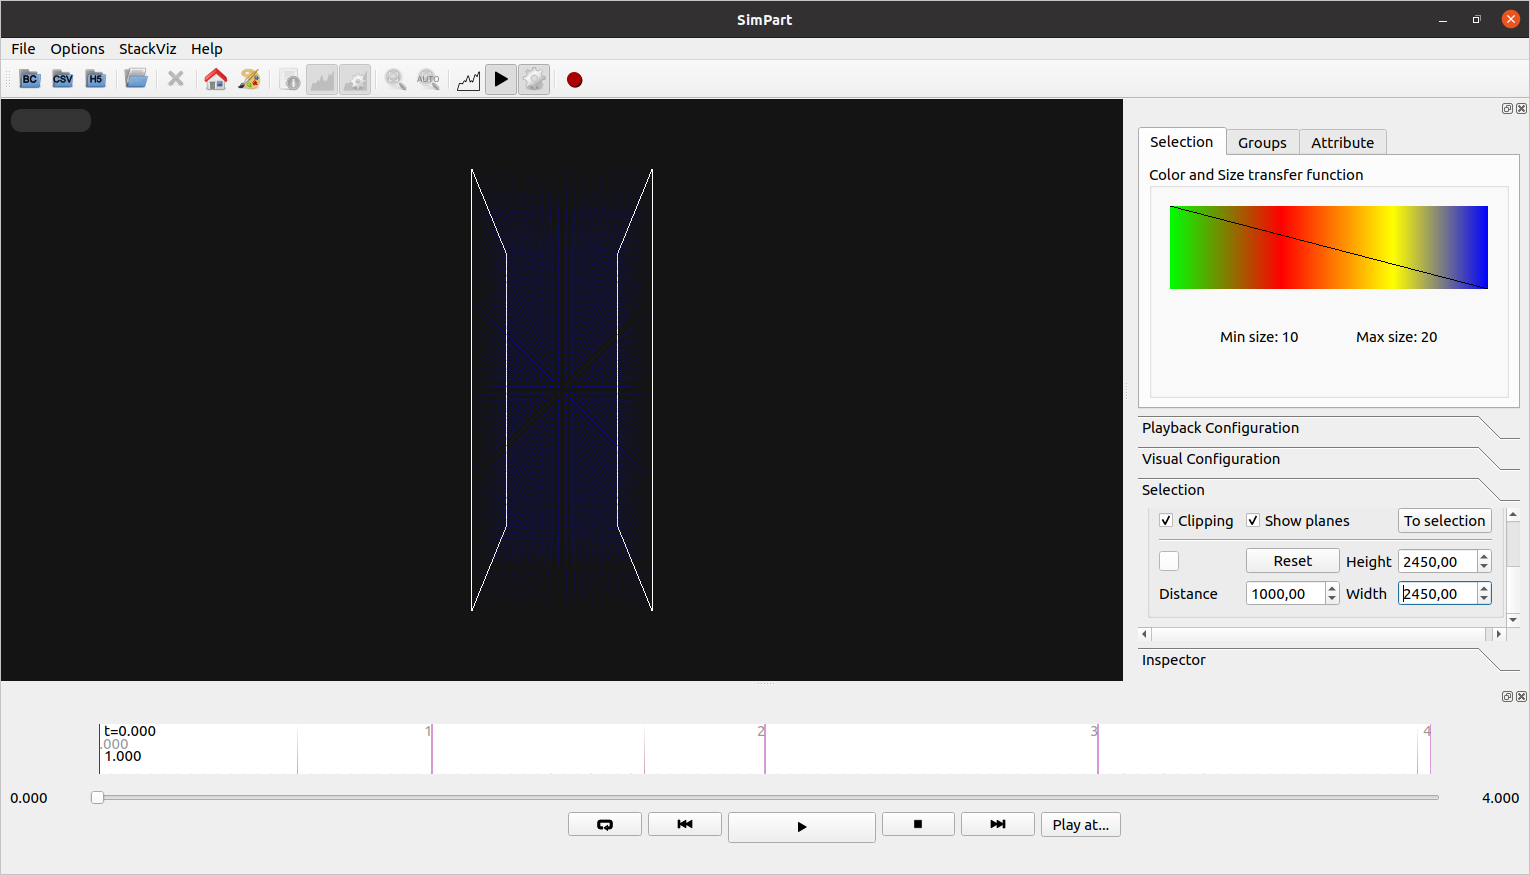
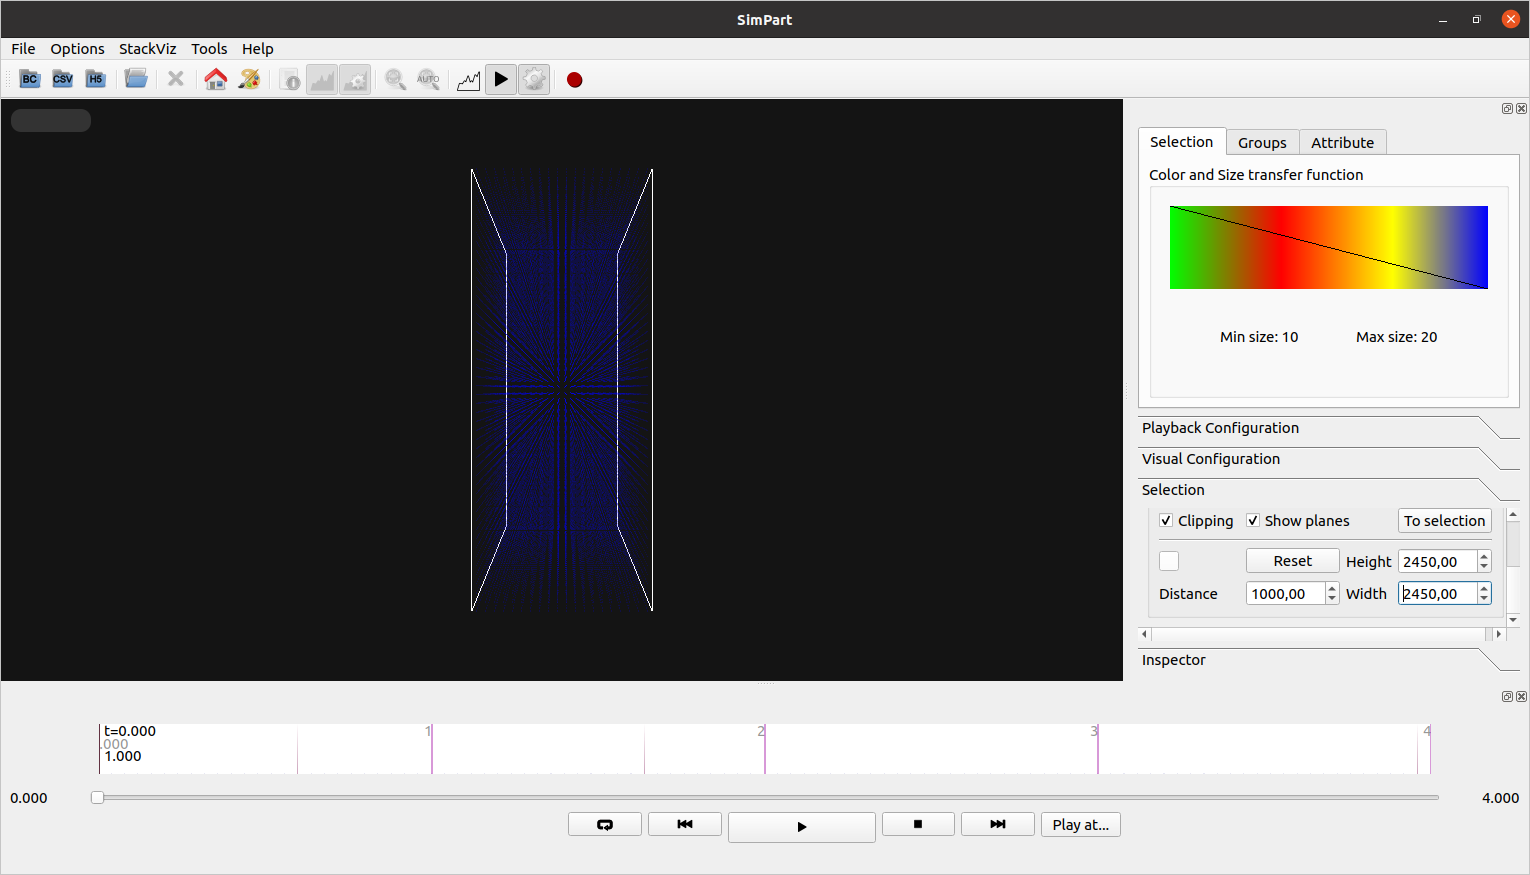
Update to version 1.5.4.

Changed region(s): [[0.3072, 0.216, 0.4301, 0.6789], [0.1229, 0.0309, 0.1843, 0.0617]]

diff --git a/source/conf.py b/source/conf.py
@@ -24,7 +24,7 @@ author = 'Sergio E. Galindo & Félix de las Pozas Álvarez'
 # The short X.Y version
 version = ''
 # The full version, including alpha/beta/rc tags
-release = '1.5.3'
+release = '1.5.4'
 
 # -- General configuration ---------------------------------------------------
 
@@ -88,7 +88,7 @@ latex_maketitle = r'''
 \begin{center}
   \includegraphics[width=6cm,height=6cm]{visimpl-icon-square.png}\\[8ex]
   {\Huge SimPart \& StackViz Documentation}\\[4ex]
-  {\Large Version 1.5.3}\\[4ex]
+  {\Large Version 1.5.4}\\[4ex]
   {\Large Sergio E. Galindo \& F\'{e}lix de las Pozas \'{A}lvarez}\\[4ex]
   {\Large March 2022}\\[16ex]
   {\Large Visualization \& Graphics Lab, Universidad Rey Juan Carlos}\\[4ex]

diff --git a/source/02-ViSimplUserInterface.rst b/source/02-ViSimplUserInterface.rst
@@ -53,8 +53,6 @@ Options menu
 - **Add ZeroEQ selections as visual groups**: By default the ids received by the ZeroEQ channel will be interpreted by SimPart as a tentative selection, if this option is checked then the received ids will be added automatically as a visual group.
 - **Update on idle**: This will reduce visualization repaint calls to user interaction (camera rotation, etc.) and specific actions. 
 - **Show FPS on idle update**: Displays a label with current frames per second rate. Note: this might reduce performance due to interface update calls, so it is recommended to hide it when not interested on measuring performance. 
-- **Recorder**: This button shows the recorder configuration dialog if the recorder is not running. If the recorder is running it will stop the recorder.
-- **Advanced recorder options**: This option will enable advanced configuration options in the recorder. 
 
 ^^^^^^^^^^^^^
 StackViz menu
@@ -68,6 +66,15 @@ This menu contains options for the StackViz widget included in SimPart. It will 
 - **Focus on playhead**: If this button is clicked the StackViz focus widget will be centered in the part of the selected histogram that is currently being visualized. 
 - **Follow playhead**: If this option is enabled the StackViz focus widget will always be centered in the part of the selected histogram that is being visualized.
 - **Show StackViz Panels**: Shows/hides the StackViz configuration panels. Hiding the panels will make the focus widget larger.
+
+^^^^^^^^^^
+Tools menu
+^^^^^^^^^^
+
+This menu contains the recorder tools and its configuration options. 
+
+- **Recorder**: This button shows the recorder configuration dialog if the recorder is not running. If the recorder is running it will stop the recorder.
+- **Advanced recorder options**: This option will enable advanced configuration options in the recorder configuration dialog. 
 
 ^^^^^^^^^
 Help menu
@@ -186,8 +193,8 @@ When creating a selection the application will ask for a group name. The name ca
 .. figure:: images/VSImage013.png
    :alt: Selection groups list with default assigned colors for each of the three selected groups.
    :align: center
-   :width: 1850
-   :scale: 35%
+   :width: 1530
+   :scale: 40%
 
    Selection groups list with default assigned colors for each of the three selected groups.
    
@@ -252,7 +259,10 @@ If the output is a video the user can specify the location of the generated file
 
 The dimensions of the output are shown and can be modified with the scale options.
 
-While the recorder is working the associated toolbar button will remain down and the user must click it again to stop it. The recorder can also be stopped using the Recorder button in the Options menu or the keyboard shortcut **Ctrl + R**.   
+While the recorder is working the associated toolbar button will remain down and the icon will change every second with an image of a "Stop" button with REC letters written inside it. The user must click it again to stop the recording. The recorder can also be stopped using the **Recorder** button in the **Tools** menu or the keyboard shortcut **Ctrl + R**.
+
+.. note::
+   If the output is a video the filename of the output file will end with "_temporal" while recording. Once the recording has finished it will change to the selected output name in the configuration dialog. The application will warn if the user tries to exit the application while a recording is being made.
 
 .. warning::
    To record a video the system must have **ffmpeg** installed, preferably with Nvidia hardware acceleration. 

diff --git a/source/01-Introduction.rst b/source/01-Introduction.rst
@@ -9,7 +9,7 @@ After decades of independent morphological and functional brain research, a key 
 
 In such context we present **ViSimpl**, which integrates a set of visualization and interaction tools that provide a semantic view of brain data with the aim of improving its analysis procedures. ViSimpl provides 3D particle--based rendering that allows visualizing simulation data with their associated spatial and temporal information, enhancing the knowledge extraction process. It also provides abstract representations of the time--varying magnitudes supporting different data aggregation and disaggregation operations and giving also focus and context clues. In addition, ViSimpl tools provide synchronized playback control of the simulation being analyzed. Finally, ViSimpl allows performing selection and filtering operations in association with NeuroScheme application. All these views are loosely coupled and can be used independently, but they can also work together, both in centralized and distributed computing environments, as linked views enhancing the data exploration and analysis procedures.
 
-This documentation is for ViSimpl version 1.5.3 that can be obtained from the homepage.
+This documentation is for ViSimpl version 1.5.4 that can be obtained from the homepage.
 
 ---------------------
 Hardware requirements
@@ -127,14 +127,14 @@ Executing both applications from docker:
 
   xhost +local:docker
   # Pull the image.
-  docker pull vglab/visimpl:1.5.3-nvidia-ubuntu-16.04
+  docker pull vglab/visimpl:1.5.4-nvidia-ubuntu-16.04
   # Download example data
   mkdir data
   cd data
   # Download a test dataset or move test files to data directory.
   cd ..
   # Run example
-  docker run --gpus 1 -ti --rm -e DISPLAY -v /tmp/.X11-unix:/tmp/.X11-unix -v /etc/machine-id:/etc/machine-id -v $(pwd)/data:/data --privileged vglab/visimpl:1.5.3-nvidia-ubuntu-16.04 /usr/bin/visimpl.sh
+  docker run --gpus 1 -ti --rm -e DISPLAY -v /tmp/.X11-unix:/tmp/.X11-unix -v /etc/machine-id:/etc/machine-id -v $(pwd)/data:/data --privileged vglab/visimpl:1.5.4-nvidia-ubuntu-16.04 /usr/bin/visimpl.sh
 
 To execute **SimPart** only the user must use the **/usr/bin/simpart.sh** call, and to execute **StackViz** follow the same steps but use **/usr/bin/stackviz.sh** in the docker call. All scripts supports the parameters specified in the previous table with the exception of **--testFile** parameter as is only available in SimPart.
 
@@ -146,9 +146,9 @@ To test the applications in a docker enviroment:
 
   xhost +local:docker
   # Pull the image.
-  docker pull vglab/visimpl:1.5.3-nvidia-ubuntu-16.04
+  docker pull vglab/visimpl:1.5.4-nvidia-ubuntu-16.04
   # Run bash inside docker
-  docker run --gpus 1 -ti --rm -e DISPLAY -v /tmp/.X11-unix:/tmp/.X11-unix -v /etc/machine-id:/etc/machine-id -v $(pwd)/data:/data --privileged vglab/visimpl:1.5.3-nvidia-ubuntu-16.04 bash
+  docker run --gpus 1 -ti --rm -e DISPLAY -v /tmp/.X11-unix:/tmp/.X11-unix -v /etc/machine-id:/etc/machine-id -v $(pwd)/data:/data --privileged vglab/visimpl:1.5.4-nvidia-ubuntu-16.04 bash
   # Executing inside the container
   simpart.sh --testFile &
   # With the test file generated and loaded in SimPart, execute StackViz with the dataset.

diff --git a/source/03-StackVizUserInterface.rst b/source/03-StackVizUserInterface.rst
@@ -19,40 +19,40 @@ The application bar presents several icons to perform actions such as opening da
 
 For more information click on application menu "File", "Playback" and "Options" to relate icons to specific commands.
 
-^^^^
-File
-^^^^
+^^^^^^^^^
+File Menu
+^^^^^^^^^
 
 - **Open BlueConfig**: Load the circuit from the given BlueConfig file with the specified target.
 - **Open CSV**: Loads a dataset stored in a CSV file. 
 - **Open HDF5 network and activity**: Loads a dataset in HDF5 format. The application will ask for the network file first and then for the activity file.
 - **Open Subset/Events file**: Loads a subset or events file of the dataset currently in memory.
 
-^^^^^^^^
-Playback
-^^^^^^^^
+^^^^^^^^^^^^^
+Playback Menu
+^^^^^^^^^^^^^
 
 - **Focus on playhead**: Sets the focus area on the current time point. 
 - **Follow playhead**: If this option is enabled the focus area will translate its position to the current time point as is being played. 
 
-^^^^^^^
-Options
-^^^^^^^
+^^^^^^^^^^^^
+Options Menu
+^^^^^^^^^^^^
 
 - **Toggle Playback Dock**: This will show or hide the playback dock.
 - **Auto naming selections**: If this option is enabled a default name will be assigned to each selection. 
 - **Fill plots**: If this option is enabled the plots will be filled with the color assigned to it. If not only the points of the graph will be shown with the color assigned.
 - **Show Configuration Panels**: Shows/Hides the configuration panels. Hiding the panels will make the focus widget wider. 
 - **Add ZeroEQ selections as histograms**: Enable this option to visualize ZeroEQ received ids as histograms.
+
+^^^^^^^^^^
+Tools Menu
+^^^^^^^^^^
+
 - **Recorder**: Shows the recoder configuration dialog or stops the recorder if already running.
 - **Advanced recorder options**: Enables or disables the recorder advanced configuration dialog. 
 
-^^^^^^^^
-Recorder
-^^^^^^^^
-
-The recorder dialog and operations work in the same way as described in the :ref:`SimPart Recorder section<recorder-reference-label>`.
-
+The recorder and its configuration dialog works in the same way as described in the :ref:`SimPart Recorder section<recorder-reference-label>`.
 
 ^^^^^^^^^^^^^^^^^^^^
 Configuration panels

diff --git a/source/05-Runbook.rst b/source/05-Runbook.rst
@@ -257,7 +257,7 @@ While StackViz starts desynchronized with SimPart using the play toolbar in the 
 .. figure:: images/RBimage017.png
    :alt: SimPart and StackViz running in sync.
    :align: center
-   :width: 1528
+   :width: 1527
    :scale: 30%
 
    SimPart and StackViz running in sync.
